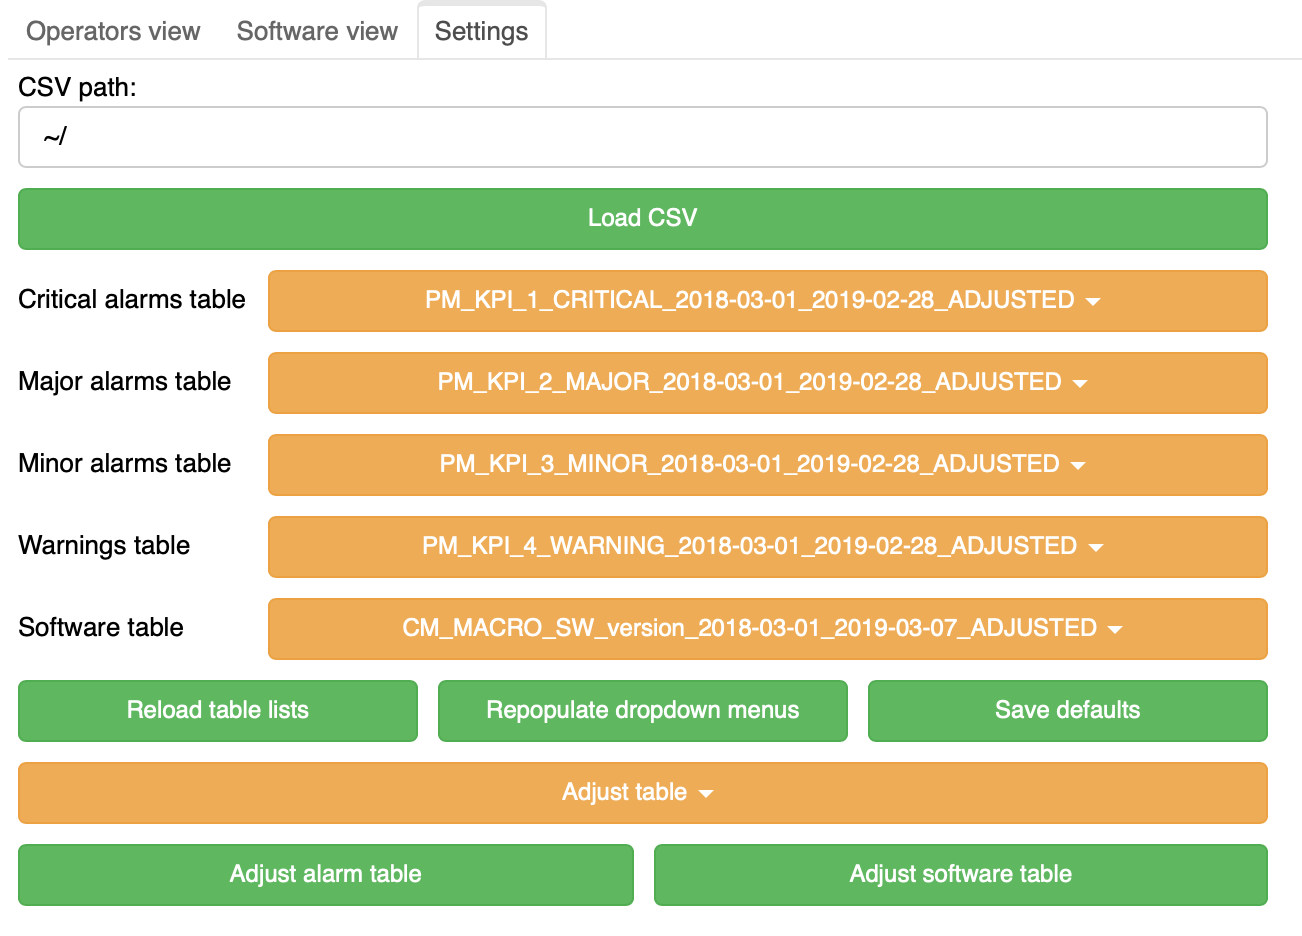
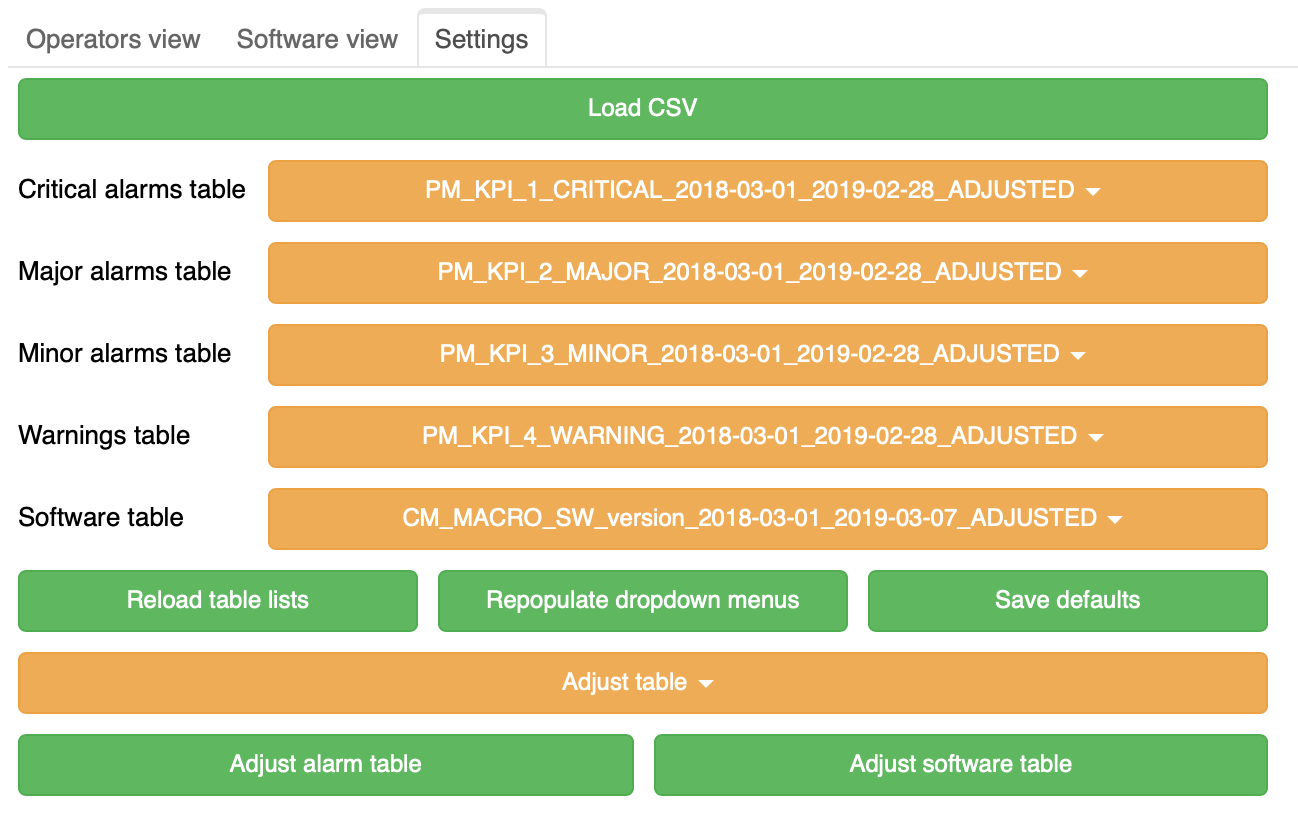
Updated README & screenshots

diff --git a/README.md b/README.md
@@ -12,47 +12,70 @@ A helper tool that makes network evolution analysis a breeze.
 ## DEPENDENCIES
 You'll need Python 3.6 or newer. The libraries below are necessary and can be installed via pip:  
 ```
-$ pip3 install psycopg2
-$ pip3 install bokeh
+$ pip3 install psycopg2==2.8.3
+$ pip3 install bokeh==1.2.0
 ```
-You will also need to have PostgreSQL installed on your machine, we tested version 11.3 ourselves but any other recent release should be fine as well.
+The dependencies can also be installed the easy way once you clone the repository:
+```
+pip3 install -r requirements.txt
+```
+You will also need to have access to a PostgreSQL instance: we tested version 11.3 ourselves, but any other recent release should be fine as well.
 
 ## FEATURES
-- An interactive, fast graphical interface
+- A fast, interactive graphical interface
 - Automatic calculation and visualization of all statistics
-- Numerous different views on information gathered from input
+- Numerous different views on the information gathered from input
 - Allows you to load any amount of data
-- Data adjusting to make up for imperfect input data
+- Data adjustment to make up for imperfect input data
 
 ## METRICS
 ### Operators View
-![GitHub Logo](/screenshots/operator_view.png)
-Allows you to view all gathered data in regard to any chosen operator. The main plot shows how many machines with a specific software the operator had in his network in the chosen interval of time. The default interval is 2 years.  The plot can be interacted with and any lines can be turned off and on to allow for easier viewing of changes in the amount of specific software installed.
+![Line graph](./screenshots/operators_view_lines.png)
+![Stacked graph](./screenshots/operators_view_stacked.png)
+Allows you to view all gathered data in regard to any chosen operator. The main plot shows how many machines with a specific software the operator had in his network in the chosen interval of time. The default interval is 2 years. The plot can be interacted with and any lines can be turned on and off (by clicking on the corresponding items in legend) to allow for easier viewing of changes in the amount of specific software installed. You can hover over any spot in the plot to view data for the specific moment in time. Stacked graph version is also available to allow viewing a different representation of presented data.
 
 ### Migrations
-![GitHub Logo](/screenshots/migrations.png)
-On the right you can see a table which lists all detected migrations of softwares in the main plot. Migration is a continuous event describing the change of installed software on the used machines in the network. The ‘duration’ statistic is calculated by subtracting the first date when a specific software migration was detected from the last day when the same migration was detected. ‘Alarms’ statistic lists how many alarms were detected which occured in dates close to the dates of migrations. ‘Size’ simply states how many machines were taking part in specific migration. 
+![Operator migrations](./screenshots/operators_view_migrations.png)
+On the right you can see a table which lists all detected migrations of softwares in the main plot. Migration is a continuous event describing the change of installed software on the used machines in the network. The ‘duration’ statistic is calculated by subtracting the first date when a specific software migration was detected from the last day when the same migration was detected. ‘Alarms’ statistic lists how many alarms were detected which occured in dates close to the dates of migrations. ‘Size’ simply states how many machines were taking part in specific migration. The fields in the table are colored to indicate some facts about migrations. Daring migration means that the migration went a few (at least 3) software versions ahead, instead of just migrating to the next version of the software. Regression means that the migration changed to a software that was older than the one already installed. 
 
-You can also view detailed info on detected migrations by choosing tab ‘Details’ in the menu. Additionally you can also view a separate plot showing how many alarms when detected in operator’s network by choosing ‘Alarms’ tab in the menu. 
-
-### Failure Frequency
-![GitHub Logo](/screenshots/failure_frequency.png)
-The ‘Failure Frequency’ tab found in ‘Software view’ in the menu depicts how many alarms specific softwares cause in relation to each other. The data is calculated based on information gathered from all available operators. It is worth noting that the data is based on both the alarms that occurred during migrations and the alarms that occurred outside of them. The numeric values on bars have specific meaning. They say how many alarms would occur on average during 30 days if you had a network with 100 machines with the specific software installed on them. 
-
-### Software Lifespan
-![GitHub Logo](/screenshots/software_lifespan.png)
-This bar graph depicts how many days on average were specific softwares used in any network. For the sake of calculations we assumed that a software was used in a network during given day if at least 1% of all machines that day had the specific software installed on them. 
+### Software statistics
+![Software view](./screenshots/software_view_fd.png)
+In 'Software view' you can find metrics dedicated to all software rather than to a specific operator. Software is divided into 'Frequency division' and 'Time division' tabs, in which you can find statistics dedicated to specific group of software. At the top of the page you can find a short rundown of statistics depicted in the graphs. The ‘Failure frequency’ graph depicts how many alarms specific softwares cause in relation to each other. The data is calculated based on information gathered from all available operators. It is worth noting that the data is based on both the alarms that occurred during migrations and the alarms that occurred outside of them. The numeric values on bars have specific meaning. They say how many alarms would occur on average during 30 days if you had a network with 100 machines with the specific software installed on them. The 'Lifespan' bar graph depicts how many days on average was specific software used in any network. For the sake of calculations we assumed that a software was used in a network during given day if at least 1% of all machines that day had the specific software installed on them.
 
 ### Software Migrations
-![GitHub Logo](/screenshots/software_migrations.png)
-This table combines all the data gathered from calculating migrations for all available operators. You can choose to view migrations of any chosen software using the provided interface, allowing for easy data lookup. Most of the values in the table are averages of migrations found in networks. The table also features statistic ‘Number of Operators’, which shows in how many different networks was the given migration found. The list of those specific networks is also available.
+![Software migrations](./screenshots/software_view_migrations.png)
+This table combines all the data gathered from calculating migrations for all available operators. You can choose to view migrations of any chosen software using the provided interface, allowing for easy data lookup. Most of the values in the table are averages of migrations found in networks. The table also features statistic ‘Number of operators’, which shows in how many different networks was the given migration found. The list of those specific networks is also available by hovering over the 'Number of operators' field. The table is colored in the same fashion as in 'Migration' tab available in 'Operators view'.
+
+### Settings
+![Settings](./screenshots/settings.png)
+From this tab you can adjust settings of the program to your needs. In case you have your tables in a CSV format, you can load them into PostgreSQL without bringing up the console. **Note that the tables you use should be adjusted before using via the buttons on the bottom - this will fill empty gaps in the data, effectively making graphs more readable and the computation of migrations more reliable.** The dropdowns specify which tables to use throughout the program. If the database schema changed during runtime, you can reload table lists. Similarly, if you made a selection in the dropdowns, you'll have to repopulate menus to show correct values in operator and software pickers. You can also save your settings to be used the next time you open the program.
 
 ## HOW TO USE
-TBA
+In order to use the program, clone the repository, install all the dependencies, point the program to a PostgreSQL instance in the `PSQL` section of the `config.ini` file, optionally change the default names of tables you'd like to read data from and finally type:
+```
+$ bokeh serve --show gui.py
+```
+Now the server can be accessed through your favourite browser via `localhost:5006/gui`.
+
+If the program seems to be unable to access the database, make sure that incoming connections are allowed (see: `pg_hba.conf`) and being listened to (see: `postgresql.conf`).
+
+If you'd rather use Docker, clone the repository and type
+```
+$ docker build --tag=network-evolution .
+```
+This will create a docker container, which can be invoked with
+```
+$ docker run network-evolution
+```
+Now the server can be accessed through your favourite browser via `0.0.0.0:5006/gui`. If you prefer to run the server in a detached state, use the `-d` option.
+
+Note that you might need to forward port 5006 to access the container. This can be achieved by using a `-p 5006:5006` option in the `docker run` command.
+
+Additionally, in order to access a PostgreSQL database running on your local machine from the container you will need to perform some additional steps, depending on your operating system (at least until the pull request no. #2348 of docker/libnetwork gets accepted).
+
+On Linux, adding `--network="host"` to the `docker run` command will suffice, as it will bridge network interfaces of `host` machine and the container.
+
+Since Docker on MacOS and Windows runs slightly differently, you will instead need to set the host variable in `PSQL` section of `config.ini` to `host.docker.internal`, which will be promptly resolved via Docker's NAT service to the host's local network.
 
 ## ADDITIONAL INFO
-The project was tested on macOS 10.14.5 Mojave,
-using Python version: 3.7.3 and PostgreSQL version: 11.3.
-
-
-
+The project was tested on macOS 10.14.5 Mojave, using Python version: 3.7.3 and PostgreSQL version: 11.3.
